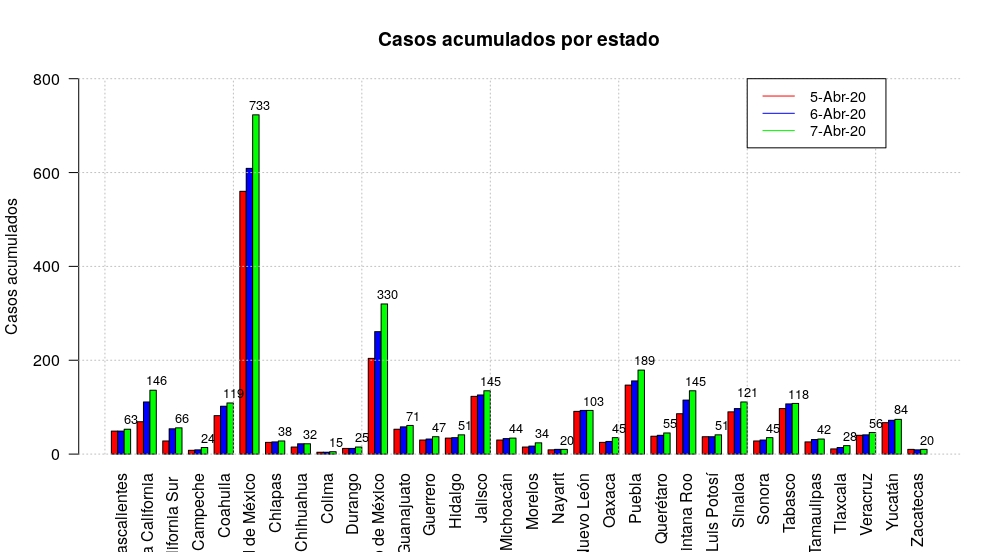
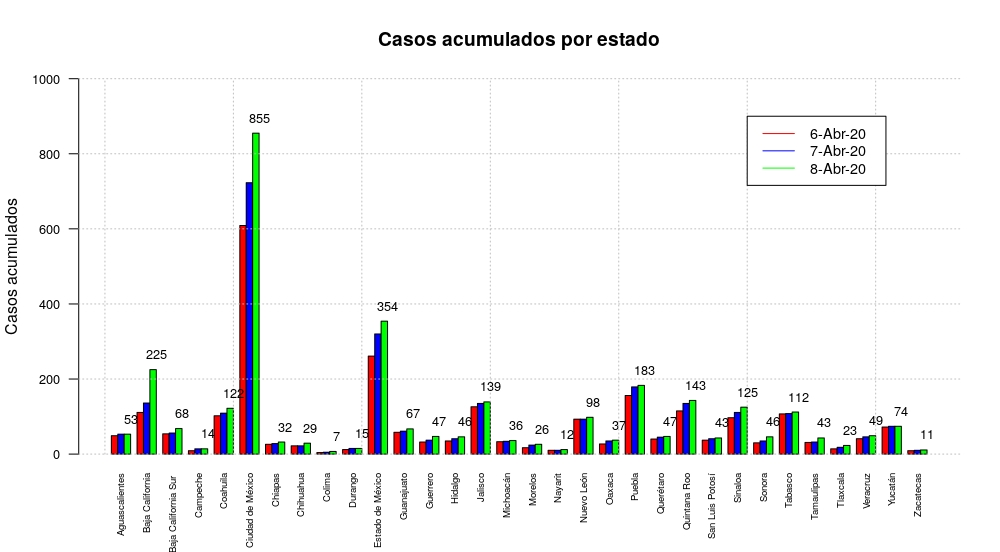
Update info to 8 April.

diff --git a/README.md b/README.md
@@ -3,17 +3,17 @@ Repositorio de vizualización de datos diarios en relación a COVID19, en Mexico
 
 Datos obtenidos de [Comunicado Técnico Diario Oficial Mexico](http://www.gob.mx/salud/documentos/coronavirus-covid-19-comunicado-tecnico-diario-238449)
 
-# Casos acumulados por estado en los tres últimos días (Actualizado 7 Abril)
+## Casos acumulados por estado en los tres últimos días (Actualizado 8 Abril)
 ![](https://github.com/edgarVazquez43/MexCovid19/blob/master/imgs/casos_acumulados_estados.jpeg "Logo Title Text 2")
 
-# Casos acumulados en total en el país  (Actualizado 7 Abril)
+## Casos acumulados en total en el país  (Actualizado 8 Abril)
 ![](https://github.com/edgarVazquez43/MexCovid19/blob/master/imgs/casos_acumulados_total.jpeg "Logo Title Text 2")
 
-# Casos nuevos registrados por día (Actualizado 7 Abril)
+## Casos nuevos registrados por día (Actualizado 8 Abril)
 ![](https://github.com/edgarVazquez43/MexCovid19/blob/master/imgs/casos_nuevos_dia.jpeg "Logo Title Text 2")
 
 -----
-## To do:
+### To do:
  - [ ]  Gráficas de decesos.
  - [ ]  Gráfica de casos ambulatorios contra hospitalizados.
  - [ ]  Estimación de casos hospitalizados.
